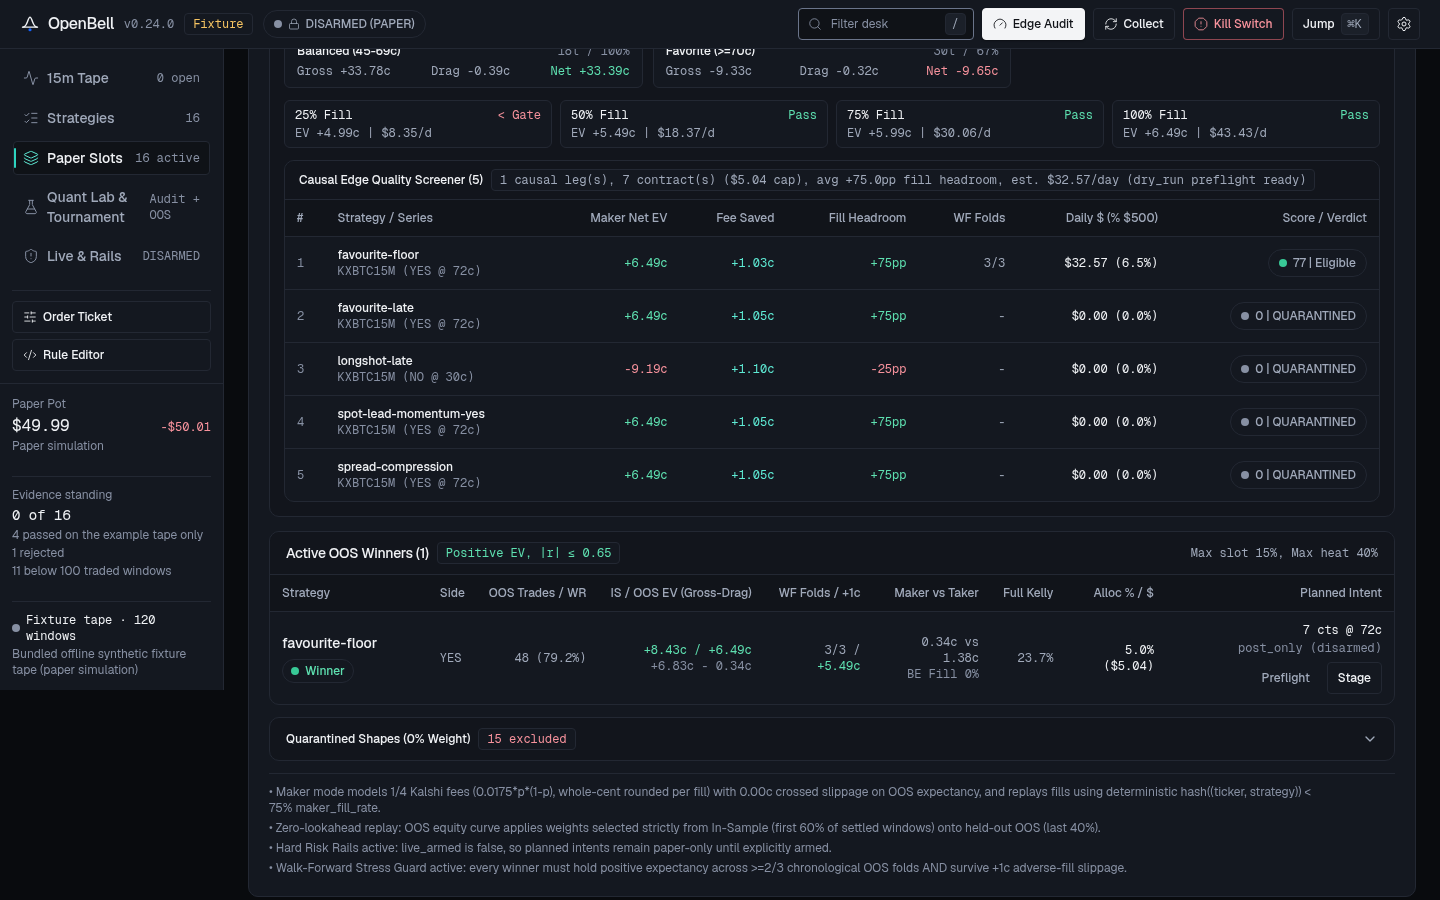
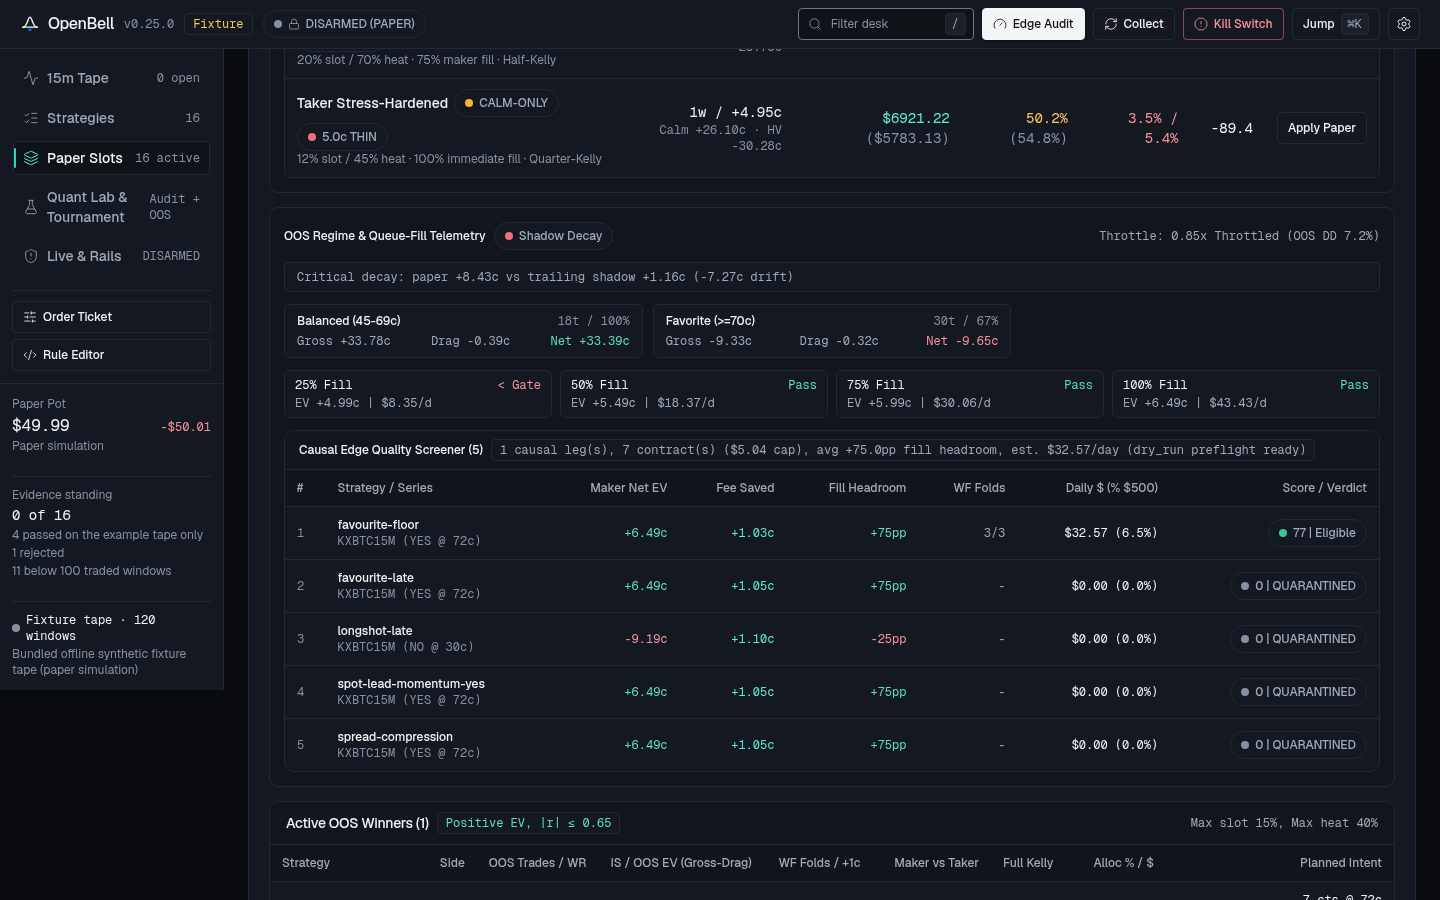
release(v0.25.0): bump versions, refresh v0.25.0 screenshots, and verify integrated gates

diff --git a/tests/cli.rs b/tests/cli.rs
@@ -27,5 +27,5 @@ fn version_flag_prints_name_and_version_and_exits() {
     }
     let out = child.wait_with_output().unwrap();
     assert_eq!(String::from_utf8_lossy(&out.stdout).trim(), format!("openbell-rs {}", env!("CARGO_PKG_VERSION")));
-    assert_eq!(env!("CARGO_PKG_VERSION"), "0.24.0");
+    assert_eq!(env!("CARGO_PKG_VERSION"), "0.25.0");
 }

diff --git a/README.md b/README.md
@@ -1,17 +1,17 @@
 # OpenBell
 
-![version](https://img.shields.io/badge/version-v0.24.0-0969da?style=flat-square)
+![version](https://img.shields.io/badge/version-v0.25.0-0969da?style=flat-square)
 ![stack](https://img.shields.io/badge/stack-Rust%20%2B%20React%2019-111827?style=flat-square)
-![tests](https://img.shields.io/badge/tests-128%2F128%20pass-16a34a?style=flat-square)
-![binary](https://img.shields.io/badge/release%20binary-5.84%20MiB-0969da?style=flat-square)
+![tests](https://img.shields.io/badge/tests-129%2F129%20pass-16a34a?style=flat-square)
+![binary](https://img.shields.io/badge/release%20binary-5.96%20MiB-0969da?style=flat-square)
 ![safety](https://img.shields.io/badge/live__armed-false%20on%20boot-16a34a?style=flat-square)
 
-OpenBell is a local Rust trading workbench for 15-minute Kalshi prediction markets. It pairs a Kalshi Trade API v2 client (`live_armed: false` on every boot, seven hard risk rails, and an emergency kill switch) with a deduplicating public 15-minute tape collector, a 16-strategy paper slot simulator, and a causal post-only maker allocator.
+OpenBell is a local Rust trading workbench for 15-minute Kalshi prediction markets. It pairs a Kalshi Trade API v2 client (`live_armed: false` on every boot, seven hard risk rails, and an emergency kill switch) with a continuous tick-driven shadow orderbook runner (`entry_quote` resting quotes, queue-ahead depletion, and persistent fill/settlement logging), a deduplicating public 15-minute tape collector, and a causal post-only maker allocator.
 
 <picture>
   <source media="(prefers-color-scheme: dark)" srcset="docs/screenshots/hero-dark.png">
   <source media="(prefers-color-scheme: light)" srcset="docs/screenshots/hero-light.png">
-  <img alt="OpenBell v0.24.0 Desktop Quant Workbench" src="docs/screenshots/hero-light.png">
+  <img alt="OpenBell v0.25.0 Desktop Quant Workbench" src="docs/screenshots/hero-light.png">
 </picture>
 
 ## Feature gallery
@@ -39,6 +39,18 @@ OpenBell is a local Rust trading workbench for 15-minute Kalshi prediction marke
       </picture>
     </td>
   </tr>
+  <tr>
+    <td colspan="2" valign="top">
+      <strong>Tick-Driven Shadow Orderbook Runner &amp; Fail-Closed Live Auto Gate (<code>v0.25.0</code>)</strong><br>
+      <sub>Runs continuous multi-slot paper shadow execution against live 15-minute orderbooks with <code>entry_quote()</code> resting quotes, queue-ahead depletion tracking, persistent <code>shadow_ledger.jsonl</code> settlement grading, drawdown pause guards, and fail-closed Live Auto gating (<code>403</code> until explicitly armed).</sub>
+      <br><br>
+      <picture>
+        <source media="(prefers-color-scheme: dark)" srcset="docs/screenshots/shadow-runner-dark.png">
+        <source media="(prefers-color-scheme: light)" srcset="docs/screenshots/shadow-runner-light.png">
+        <img alt="Shadow and Auto-Live Runner Control Deck" src="docs/screenshots/shadow-runner-light.png">
+      </picture>
+    </td>
+  </tr>
 </table>
 
 ## Causal execution and fail-closed risk pipeline
@@ -55,9 +67,9 @@ flowchart LR
   R -- "confirm_arm = true" --> K["Kalshi Trade API v2 (RSA-PSS SHA-256)"]
 ```
 
-## Verified benchmarks (`v0.24.0` vs `v0.10.0`)
+## Verified baseline (`v0.24.0`) and `v0.25.0` shadow runner
 
-Measured on a 100k-tick, 2,000-window 15-minute tape via `scale-audit` under `#154` (`taskset -c 24-31`, 16 workers, 5 SSE subscribers, and 25 raw-TCP fuzz checks):
+`v0.25.0` adds live tick-driven shadow orderbook execution (`ShadowRunner`), `entry_quote()` resting limit quotes, queue-ahead fill simulation, and persistent `shadow_ledger.jsonl` settlement grading under `/api/runner/*`, while preserving `live_armed: false` on every boot (`v0.24.0` baseline metrics measured under `#154` 16-worker isolation shown below; `v0.25.0` verified on 129 Rust tests + 103/103 UI gates).
 
 | Metric | `v0.10.0` Baseline | `v0.24.0` Verified | Delta |
 | --- | --- | --- | --- |
@@ -98,10 +110,10 @@ Static assets (`assets/index.html.gz` and 21 embedded `/chunks/*` routes) stay g
 ### Verification suite
 
 - `cargo clippy --all-targets -- -D warnings`
-- `cargo test` (`128` unit and integration tests across `analytics`, `auto_allocator`, `edge_audit`, `kalshi_live`, `recalibration`, `risk_rails`, `scaling`, `tournament`, `update`, and HTTP/SSE/CWE-59 suites)
+- `cargo test` (`129` unit and integration tests across `analytics`, `auto_allocator`, `edge_audit`, `kalshi_live`, `recalibration`, `risk_rails`, `scaling`, `shadow_runner` / `v025_shadow_runner`, `tournament`, `update`, and HTTP/SSE/CWE-59 suites)
 - `cargo check --target x86_64-pc-windows-msvc`
 - `bash .loop/checks/rails.sh && bash .loop/checks/equity.sh`
-- `cd frontend && npm run check:ui -- --skip-build --lints` (`gate 101/101`, `replay 18/18`, Hallmark `sloplint --scope app --render`)
+- `cd frontend && npm run check:ui -- --skip-build --lints` (`gate 103/103`, `replay 18/18`, Hallmark `sloplint --scope app --render`)
 
 ### Environment variables
 

diff --git a/CHANGELOG.md b/CHANGELOG.md
@@ -4,6 +4,12 @@ Each release is tagged `vMAJOR.MINOR.PATCH` and published on GitHub Releases wit
 binaries and a `SHA256SUMS` file. The running desk shows its version and can update
 itself from the newest release (see README, "Versions and updates").
 
+## 0.25.0 - 2026-11-26
+
+- Added a continuous tick-driven Paper/Shadow Orderbook Matching Engine and fail-closed automated multi-slot Strategy Runner in `src/shadow_runner.rs` (`ShadowRunner`), wired into `src/main.rs` via `/api/runner/{status,config,start,stop,ledger}`, `event: runner` SSE frames, and atomic `runner.emergency_halt()` inside `POST /api/live/kill-switch` before `cancel_all_orders()`.
+- Invoked `Strategy::entry_quote()` cleanly on active open 15-minute markets to rest whole-cent maker quotes, track queue-ahead depletion and touch/cross fills, cancel unfilled quotes before expiry, grade venue settlements into persistent `<OPENBELL_DATA>/shadow_ledger.jsonl` and `runner_state.json` (never persisting `live_auto`), and pause slots automatically on realized shadow drawdown.
+- Added `frontend/src/lib/runner.ts` and `frontend/src/ShadowRunnerPanel.tsx` mounted in `LiveTradingPanel.tsx` and `App.tsx`, plus end-to-end Rust and Playwright verification (`tests/v025_shadow_runner.rs`, `frontend/e2e/gate.mjs`).
+
 ## 0.24.0 - 2026-11-25
 
 - Added Causal Liquidity Depth & Scalable Bankroll Capacity Check (`compute_liquidity_capacity`, `LiquidityCapacityReport`, `LiquidityCapacityLeg`, `LiquidityScaleScenario` in `src/auto_allocator.rs`) backed by pre-settlement orderbook depth extraction (`window_depth_contracts` in `src/tournament.rs`) to evaluate `1x`, `2x`, and `5x` sizing partial-fill ratios, convex queue impact drag, `LIQUID` / `TIGHT` / `CROWDED` capacity tiers, and exact `max_scalable_dollars` and `max_scalable_bankroll` ceilings before impact erases post-fee OOS expectancy, while keeping `live_armed: false`.
